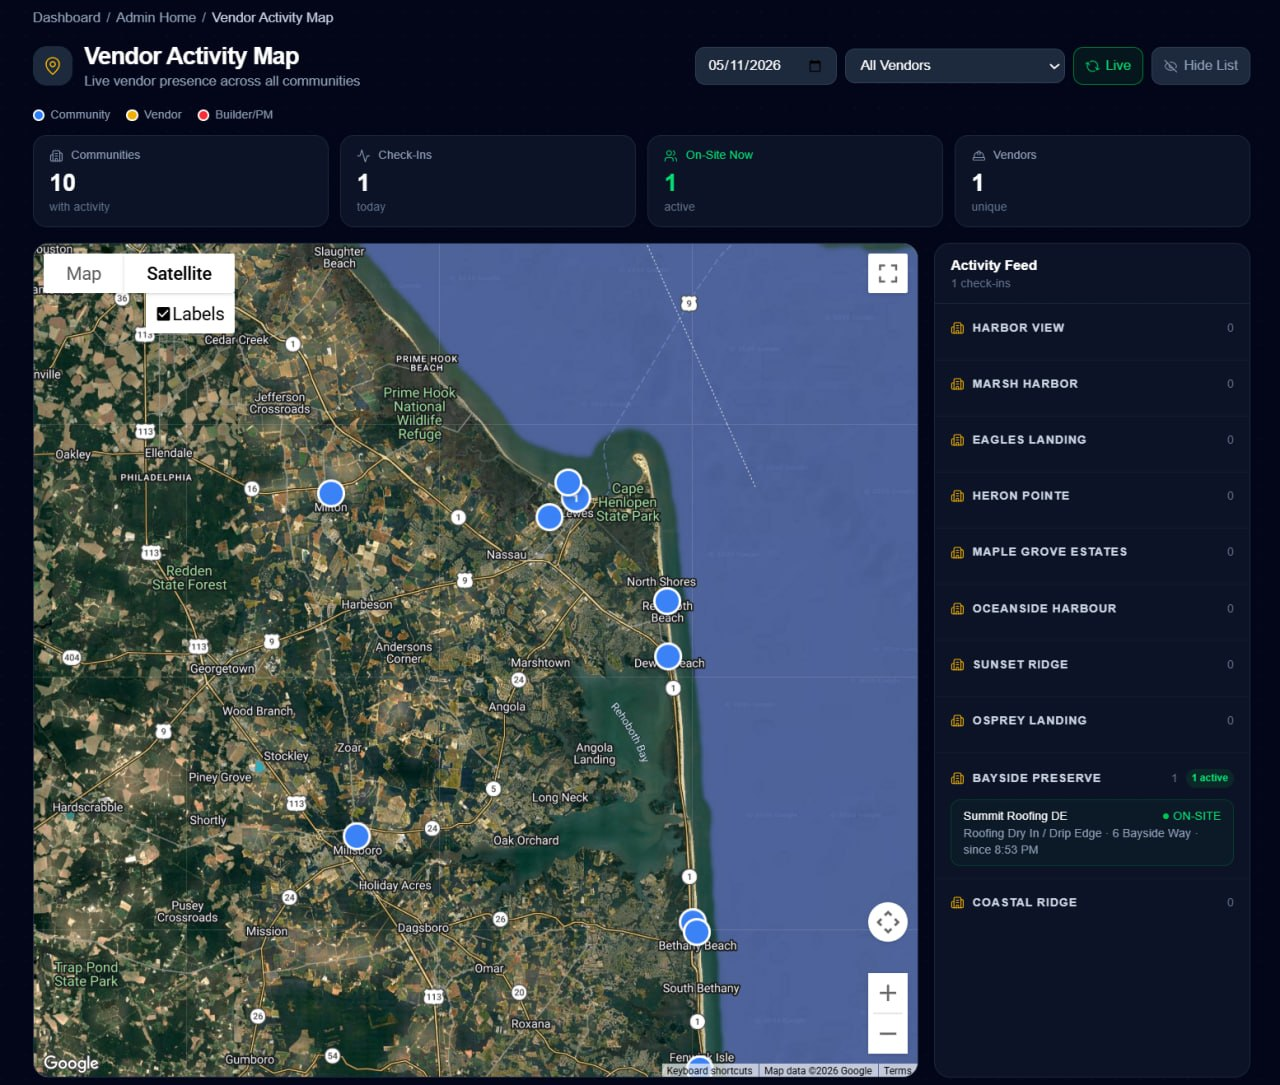
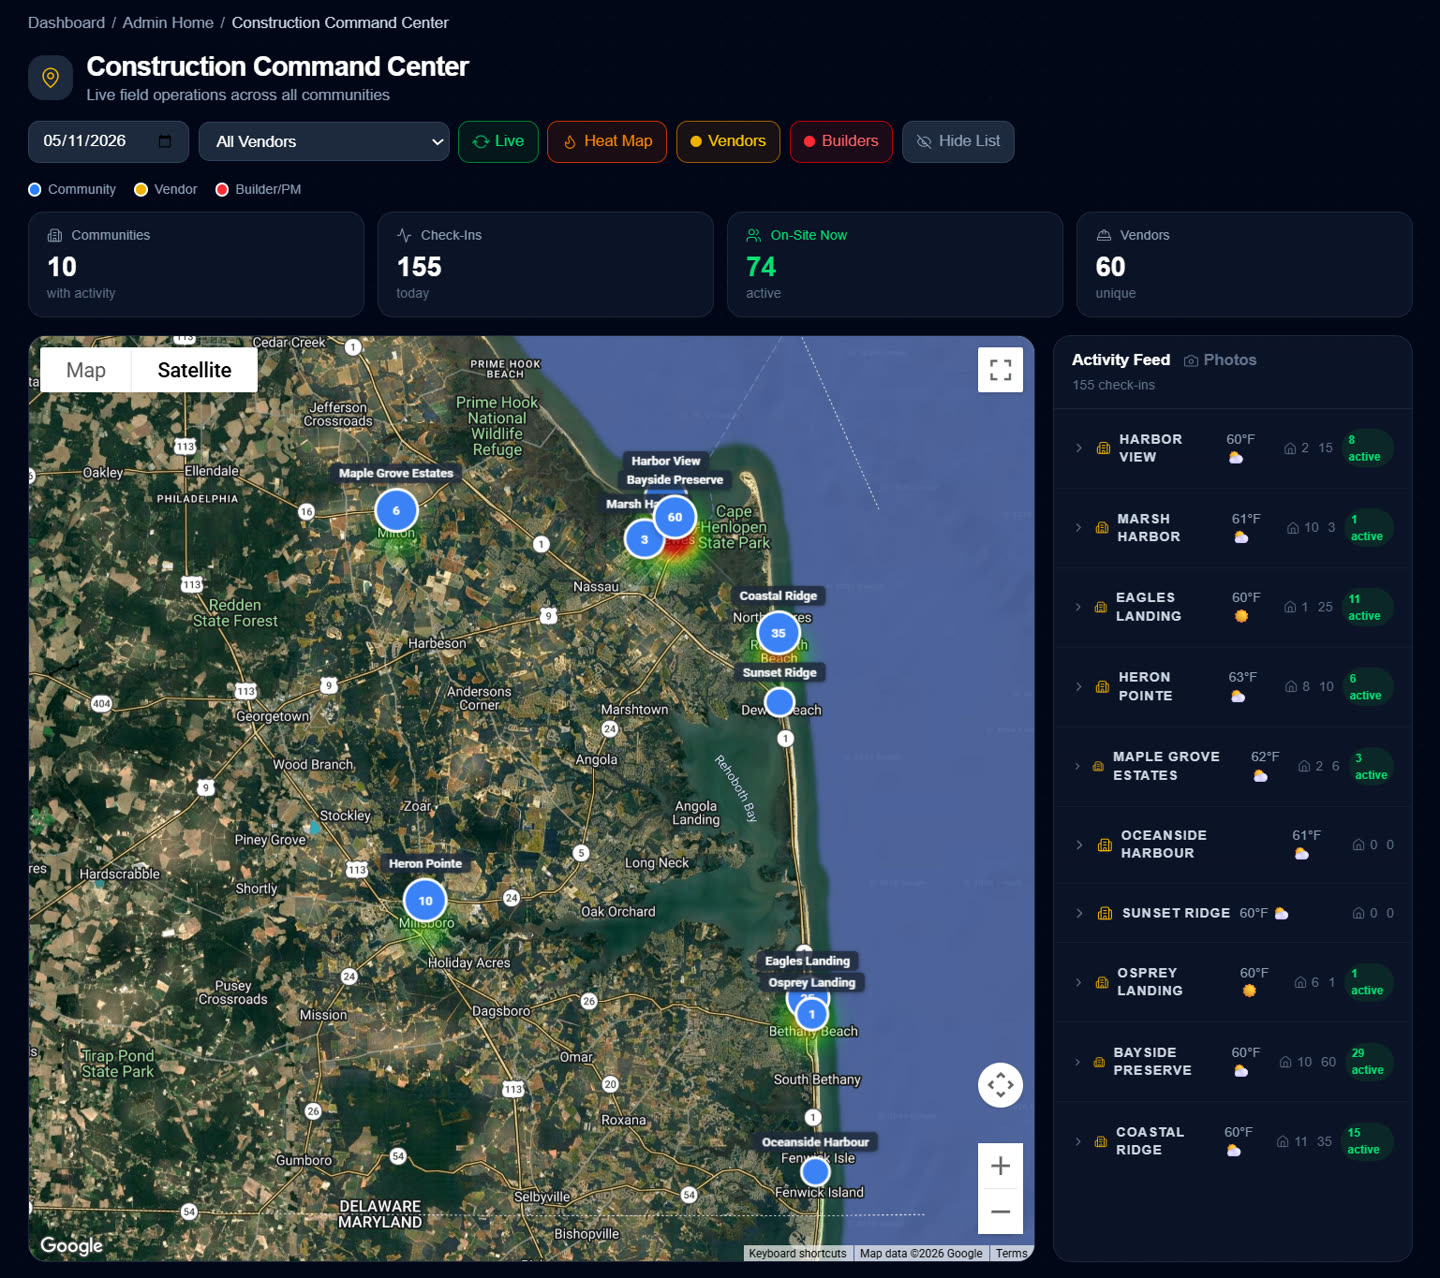
feat(qr): fresh Command Center screenshots, moved above the fold
- New overview desktop shot: 155 check-ins, 74 on-site, 60 vendors, heat
  map overlay - the actual 'wow' state, not the old 1-active placeholder
- New detail shot: vendor popup + expanded community activity feed showing
  drill-down with trade, lot, on-site times per vendor
- New mobile shot: real activity feed at Eagles Landing (not stale data)
- Section moved from way-down-the-page to right after hero so the first
  thing visitors see is visual proof of the live command center
- Updated copy: heat map mentioned, drill-down behavior described
- TSC clean

diff --git a/src/app/qr/page.tsx b/src/app/qr/page.tsx
@@ -188,6 +188,96 @@ export default function QRPage() {
         </div>
       </section>
 
+      {/* Vendor Activity Map — hero-adjacent visual proof */}
+      <section className="py-12 px-4">
+        <div className="max-w-6xl mx-auto rounded-2xl border border-slate-800/60 bg-gradient-to-br from-slate-900/80 to-slate-950 p-6 sm:p-8 md:p-12">
+          {/* Header + intro */}
+          <div className="max-w-3xl mx-auto text-center mb-10">
+            <div className="inline-flex items-center gap-2 px-3 py-1 rounded-full border border-cyan-500/30 bg-cyan-500/10 text-cyan-400 text-xs font-semibold mb-4">
+              <Radio className="w-3.5 h-3.5" />
+              THE COMMAND CENTER VIEW
+            </div>
+            <h2 className="text-3xl sm:text-4xl font-black text-white mb-4">Vendor Activity Map</h2>
+            <p className="text-slate-400 leading-relaxed mb-3">
+              Every QR scan becomes a pin. Live Google Maps view of every vendor and PM check-in
+              across every community, with weather overlays, a heat map of activity, and a live
+              feed that refreshes every 30 seconds. Filter by date, filter by vendor. See who&apos;s
+              on-site <span className="text-white font-semibold">right now.</span>
+            </p>
+            <p className="text-cyan-400/90 text-sm font-semibold">
+              Same live command center on desktop, tablet, and phone. Pull it up from the truck,
+              the trailer, the office, or a hammock in Cabo — your build runs the same.
+            </p>
+          </div>
+
+          {/* Hero desktop screenshot — the wow shot */}
+          <div className="relative rounded-xl border border-slate-700 bg-slate-900 overflow-hidden shadow-2xl shadow-cyan-500/10 mb-6">
+            <div className="absolute top-3 left-3 z-10 px-2.5 py-1 rounded-full bg-slate-950/80 backdrop-blur-sm border border-cyan-500/40 text-cyan-400 text-[10px] font-bold tracking-widest uppercase">
+              Desktop · Live Overview
+            </div>
+            <Image
+              src="/mockups/ss-vendor-activity-map-desktop.jpg"
+              alt="Vendor Activity Map desktop overview - Google Maps satellite of coastal Delaware with clustered check-in pins, heat-map overlay showing activity intensity, stat cards (10 communities, 155 check-ins today, 74 on-site now, 60 unique vendors), and a live activity feed with weather conditions per community"
+              width={1440}
+              height={1278}
+              className="w-full h-auto block"
+              sizes="(max-width: 1024px) 100vw, 1100px"
+              priority
+            />
+          </div>
+
+          {/* Detail desktop + phone */}
+          <div className="grid grid-cols-1 lg:grid-cols-[1.5fr_1fr] gap-6 lg:gap-8 items-center mb-10">
+            {/* Detail screenshot */}
+            <div className="relative rounded-xl border border-slate-700 bg-slate-900 overflow-hidden shadow-2xl shadow-violet-500/10">
+              <div className="absolute top-3 left-3 z-10 px-2.5 py-1 rounded-full bg-slate-950/80 backdrop-blur-sm border border-violet-500/40 text-violet-300 text-[10px] font-bold tracking-widest uppercase">
+                Drill into any pin
+              </div>
+              <Image
+                src="/mockups/ss-vendor-activity-map-detail.jpg"
+                alt="Vendor Activity Map detail view - clicking a vendor pin opens a popup with vendor name, trade, lot, and time on-site, while the activity feed expands to show every vendor working that community with start/end times"
+                width={1440}
+                height={1296}
+                className="w-full h-auto block"
+                sizes="(max-width: 1024px) 100vw, 660px"
+              />
+            </div>
+            {/* Phone screenshot */}
+            <div className="flex justify-center">
+              <div className="relative max-w-[260px] w-full rounded-[2rem] border-4 border-slate-700 bg-slate-900 overflow-hidden shadow-2xl shadow-cyan-500/20">
+                <div className="absolute top-3 left-1/2 -translate-x-1/2 z-10 px-2.5 py-1 rounded-full bg-slate-950/80 backdrop-blur-sm border border-emerald-500/40 text-emerald-400 text-[10px] font-bold tracking-widest uppercase">
+                  In Your Pocket
+                </div>
+                <Image
+                  src="/mockups/ss-vendor-activity-map.jpg"
+                  alt="Vendor Activity Map mobile view - same live map and activity feed running on a phone, with vendor check-ins, trades, lots, and on-site timestamps for Eagles Landing community"
+                  width={720}
+                  height={1560}
+                  className="w-full h-auto block"
+                  sizes="(max-width: 1024px) 65vw, 260px"
+                />
+              </div>
+            </div>
+          </div>
+
+          {/* Bullets */}
+          <ul className="grid grid-cols-1 sm:grid-cols-3 gap-4 max-w-4xl mx-auto text-sm text-slate-300">
+            <li className="flex items-start gap-2.5">
+              <CheckCircle2 className="w-4 h-4 mt-0.5 text-cyan-400 flex-shrink-0" />
+              Real-time pins for every vendor and PM check-in
+            </li>
+            <li className="flex items-start gap-2.5">
+              <CheckCircle2 className="w-4 h-4 mt-0.5 text-cyan-400 flex-shrink-0" />
+              Heat-map overlay shows where the action is
+            </li>
+            <li className="flex items-start gap-2.5">
+              <CheckCircle2 className="w-4 h-4 mt-0.5 text-cyan-400 flex-shrink-0" />
+              Click any pin for vendor, trade, lot, and time on-site
+            </li>
+          </ul>
+        </div>
+      </section>
+
       {/* Stats */}
       <section className="py-8 px-4">
         <div className="max-w-5xl mx-auto grid grid-cols-2 md:grid-cols-4 gap-4">
@@ -546,80 +636,6 @@ export default function QRPage() {
               </p>
             </div>
           </div>
-        </div>
-      </section>
-
-      {/* Pairs with Vendor Activity Map */}
-      <section className="py-12 px-4">
-        <div className="max-w-6xl mx-auto rounded-2xl border border-slate-800/60 bg-gradient-to-br from-slate-900/80 to-slate-950 p-6 sm:p-8 md:p-12">
-          {/* Header + intro */}
-          <div className="max-w-3xl mx-auto text-center mb-10">
-            <div className="inline-flex items-center gap-2 px-3 py-1 rounded-full border border-cyan-500/30 bg-cyan-500/10 text-cyan-400 text-xs font-semibold mb-4">
-              <Radio className="w-3.5 h-3.5" />
-              THE COMMAND CENTER VIEW
-            </div>
-            <h2 className="text-3xl sm:text-4xl font-black text-white mb-4">Vendor Activity Map</h2>
-            <p className="text-slate-400 leading-relaxed mb-3">
-              Every QR scan becomes a pin. Live Google Maps view of every vendor and PM check-in
-              across every community, with weather overlays and a live activity feed. Filter by
-              date, filter by vendor. See who&apos;s on-site right now — refreshes every 30 seconds.
-            </p>
-            <p className="text-cyan-400/90 text-sm font-semibold">
-              Same live command center on desktop, tablet, and phone. Pull it up from the truck,
-              the trailer, the office, or a hammock in Cabo — your build runs the same.
-            </p>
-          </div>
-
-          {/* Side-by-side: desktop map + phone */}
-          <div className="grid grid-cols-1 lg:grid-cols-[1.7fr_1fr] gap-6 lg:gap-8 items-center mb-10">
-            {/* Desktop screenshot */}
-            <div className="relative rounded-xl border border-slate-700 bg-slate-900 overflow-hidden shadow-2xl shadow-cyan-500/10">
-              <div className="absolute top-3 left-3 z-10 px-2.5 py-1 rounded-full bg-slate-950/80 backdrop-blur-sm border border-cyan-500/40 text-cyan-400 text-[10px] font-bold tracking-widest uppercase">
-                Desktop View
-              </div>
-              <Image
-                src="/mockups/ss-vendor-activity-map-desktop.jpg"
-                alt="Vendor Activity Map desktop view - Google Maps satellite of coastal Delaware with pinned communities, stat cards showing 10 communities and 1 on-site check-in, and live activity feed showing Summit Roofing DE on-site at Bayside Preserve"
-                width={1280}
-                height={1085}
-                className="w-full h-auto block"
-                sizes="(max-width: 1024px) 100vw, 720px"
-                priority
-              />
-            </div>
-            {/* Phone screenshot */}
-            <div className="flex justify-center">
-              <div className="relative max-w-[260px] w-full rounded-[2rem] border-4 border-slate-700 bg-slate-900 overflow-hidden shadow-2xl shadow-cyan-500/20">
-                <div className="absolute top-3 left-1/2 -translate-x-1/2 z-10 px-2.5 py-1 rounded-full bg-slate-950/80 backdrop-blur-sm border border-emerald-500/40 text-emerald-400 text-[10px] font-bold tracking-widest uppercase">
-                  In Your Pocket
-                </div>
-                <Image
-                  src="/mockups/ss-vendor-activity-map.jpg"
-                  alt="Vendor Activity Map mobile view - same live map running on a phone with stat cards and activity feed"
-                  width={591}
-                  height={1280}
-                  className="w-full h-auto block"
-                  sizes="(max-width: 1024px) 65vw, 260px"
-                />
-              </div>
-            </div>
-          </div>
-
-          {/* Bullets */}
-          <ul className="grid grid-cols-1 sm:grid-cols-3 gap-4 max-w-4xl mx-auto text-sm text-slate-300">
-            <li className="flex items-start gap-2.5">
-              <CheckCircle2 className="w-4 h-4 mt-0.5 text-cyan-400 flex-shrink-0" />
-              Real-time pins for vendor and PM check-ins
-            </li>
-            <li className="flex items-start gap-2.5">
-              <CheckCircle2 className="w-4 h-4 mt-0.5 text-cyan-400 flex-shrink-0" />
-              Stat cards: communities, on-site count, unique vendors today
-            </li>
-            <li className="flex items-start gap-2.5">
-              <CheckCircle2 className="w-4 h-4 mt-0.5 text-cyan-400 flex-shrink-0" />
-              Activity feed sidebar of recent scans
-            </li>
-          </ul>
         </div>
       </section>
 
